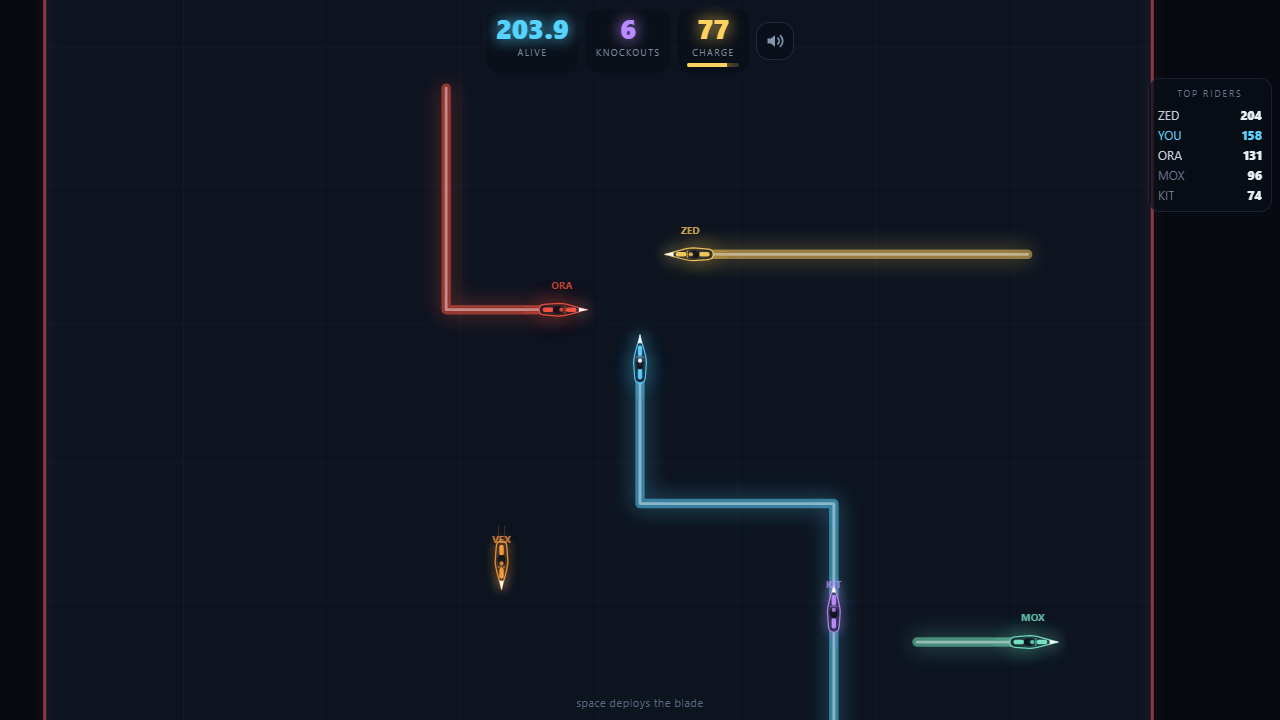
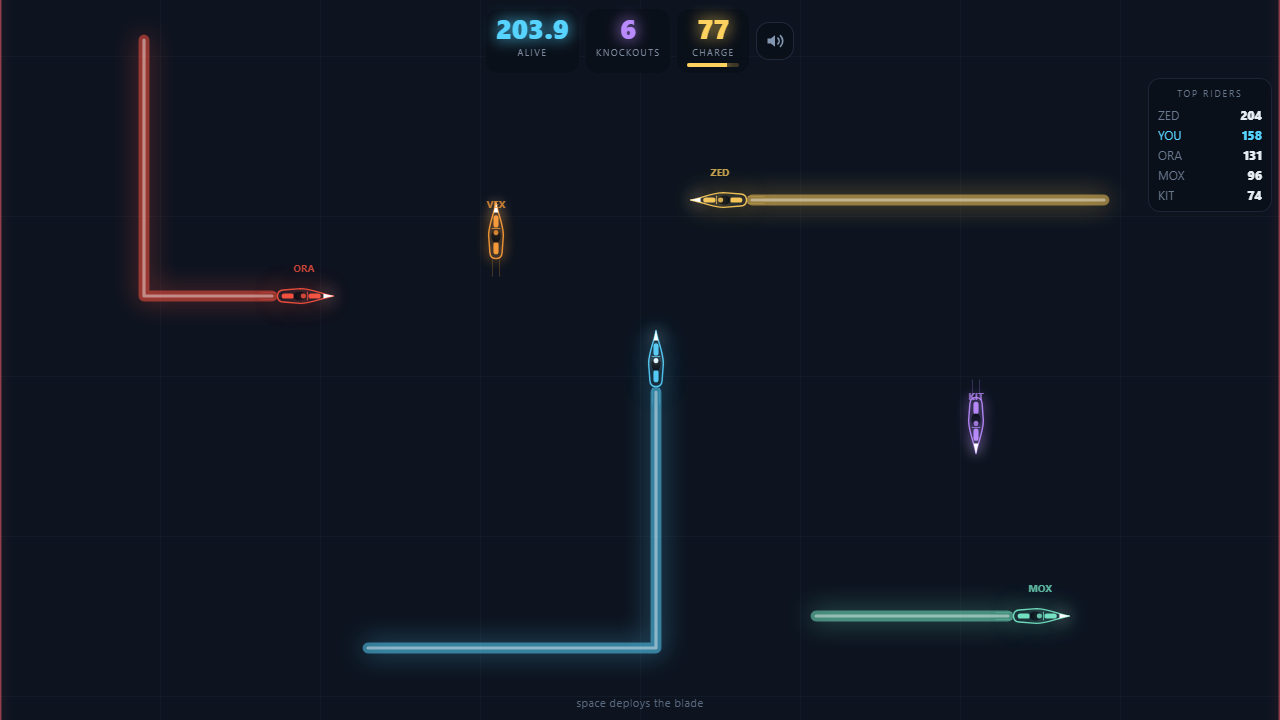
The press shot shows a layout the game stopped having sixteen days ago
shot-3-arena-wide.png was taken on 30 Sep. The camera changed on 1 Oct - the arena
fills a computer's screen now instead of floating in black - so the picture Lok would
have posted at launch showed the exact fault that fix removed: black down both sides
and a view 46 cells wide on a board 40 wide. Nothing had ever re-checked the press kit
against the game.

Retaken from the page itself at 1280x720, and the taking is now a script rather than
an afternoon: press/make-wide-shot.py injects a hand-built arena into index.html with
rAF stubbed out, no server and no randomness, and asks headless Edge for one frame.
Three measured quirks are handled in it - Edge reports innerWidth smaller than it lays
the page out, it will not composite a canvas into --screenshot, and roughly every other
run writes nothing at all.

index.html is untouched, so the itch zip stays byte-identical and needs no repack.

diff --git a/press/make-wide-shot.py b/press/make-wide-shot.py
@@ -1,0 +1,103 @@
+"""Re-take press/shot-3-arena-wide.png from whatever index.html currently draws.
+
+Run it from the repo root: python press/make-wide-shot.py
+
+The shot went stale for sixteen days once - it was taken on 30 Sep and the camera changed on
+1 Oct, so the picture Lok would have posted at launch showed the arena floating in black that
+the fix had removed. This exists so the picture is regenerated from the page rather than
+remembered, and so the next look change costs a minute instead of an afternoon.
+
+How it works: index.html is copied to a scratch probe with requestAnimationFrame stubbed out and
+a hand-built arena appended - no server, no socket, no randomness - then headless Edge is asked
+for one screenshot. Three measured quirks are already handled here:
+  * Edge lays the page out at the window size but reports innerWidth/innerHeight smaller, so the
+    canvas is sized to a fixed 1280x720 rather than to fit().
+  * Edge does not composite a canvas into --screenshot, so the probe hands it a plain <img> of
+    the same pixels (cv.toDataURL) and hides the canvas.
+  * Back-to-back Edge runs write nothing at all, roughly every other try, hence the retry loop.
+"""
+import os, shutil, subprocess, sys, tempfile, time
+
+EDGE = r"C:/Program Files (x86)/Microsoft/Edge/Application/msedge.exe"
+HERE = os.path.dirname(os.path.abspath(__file__))
+ROOT = os.path.dirname(HERE)
+PROBE = os.path.join(ROOT, "_probe_wide.html")
+OUT = os.path.join(HERE, "shot-3-arena-wide.png")
+
+# One still of a real arena: four riders laying ribbon, two riding clean, you in the middle with
+# the blade out. The two with nothing behind them are the whole point of the game, so keep them.
+SCENE = """
+<script>
+setTimeout(function () {
+  const cell = (x, y) => y * W + x;
+  let born = 0;
+  function trail(id, x, y, legs) {
+    for (const [dx, dy, n] of legs) for (let i = 0; i < n; i++) { walls.set(cell(x, y), {o: id, born: born++}); x += dx; y += dy; }
+    return [x, y];
+  }
+  function bike(id, nm, x, y, d, blade, charge) {
+    bikes.set(id, {id, x, y, px: x, py: y, ox: x, oy: y, d, blade, charge});
+    names.set(id, {n: nm, bot: id !== 1 ? 1 : 0});
+  }
+  tick = 2400; born = tick - 55; tickAt = performance.now();
+  ws = {};                                       // rivals' names only draw for a real arena
+
+  let p = trail(1, 11, 38, [[1, 0, 9], [0, -1, 9]]);          // you: a corner in the ribbon behind you
+  bike(1, 'YOU', p[0], p[1], 'U', true, 77);
+  born = tick - 48; p = trail(1004, 34, 24, [[-1, 0, 12]]);   // ZED, amber, a long wall across the top
+  bike(1004, 'ZED', p[0], p[1], 'L', true, 41);
+  born = tick - 40; p = trail(1005, 4, 19, [[0, 1, 8], [1, 0, 5]]);   // ORA, red, came down the left
+  bike(1005, 'ORA', p[0], p[1], 'R', true, 63);
+  born = tick - 20; p = trail(1007, 25, 37, [[1, 0, 7]]);     // MOX, mint, along the bottom right
+  bike(1007, 'MOX', p[0], p[1], 'R', true, 88);
+  bike(1006, 'KIT', 30, 31, 'D', false, 100);                 // blade off: nothing behind him at all
+  bike(1002, 'VEX', 15, 25, 'U', false, 52);
+
+  me = 1; riding = true; myStart = tick - 2039; myKos = 6;
+  paintBoard([['ZED', 204, 1], ['YOU', 158, 0], ['ORA', 131, 1], ['MOX', 96, 1], ['KIT', 74, 1]]);
+  $('overlay').hidden = true;
+  $('hud').hidden = $('board').hidden = $('hint').hidden = false;
+  $('hint').textContent = 'space deploys the blade';
+  fit();
+  cw = 1280; ch = 720;
+  cv.style.width = cw + 'px'; cv.style.height = ch + 'px';
+  cv.width = Math.round(cw * dpr); cv.height = Math.round(ch * dpr);
+  paint(); draw();
+  const img = new Image();
+  img.src = cv.toDataURL('image/png');
+  img.style.cssText = 'position:fixed;left:0;top:0;width:' + cw + 'px;height:' + ch + 'px;z-index:0';
+  cv.style.display = 'none';
+  document.body.prepend(img);
+}, 1200);
+</script>
+"""
+
+
+def main():
+    page = open(os.path.join(ROOT, "index.html"), encoding="utf-8").read()
+    if page.count("<script>") != 1:
+        sys.exit("index.html no longer has exactly one <script> block - check the probe still fits")
+    page = page.replace("<script>", "<script>requestAnimationFrame = () => 0;", 1)
+    page = page.replace("</body>", SCENE + "</body>", 1)
+    open(PROBE, "w", encoding="utf-8", newline="").write(page)
+    profiles = tempfile.mkdtemp(prefix="retron-shot-")   # not under ROOT: these must never land in the repo
+    try:
+        if os.path.exists(OUT):
+            os.remove(OUT)
+        for i in range(6):
+            subprocess.run([EDGE, "--headless=new", "--disable-gpu", "--hide-scrollbars",
+                            "--window-size=1280,720", "--screenshot=" + OUT,
+                            "--virtual-time-budget=6000",
+                            "--user-data-dir=%s" % os.path.join(profiles, str(i)),
+                            "file:///" + PROBE.replace(os.sep, "/")], capture_output=True)
+            if os.path.exists(OUT):
+                print("wrote %s (%d bytes) on try %d" % (OUT, os.path.getsize(OUT), i + 1))
+                return
+            time.sleep(3)
+        sys.exit("Edge wrote no screenshot in six tries")
+    finally:
+        os.path.exists(PROBE) and os.remove(PROBE)
+        shutil.rmtree(profiles, ignore_errors=True)
+
+
+main()

diff --git a/press/launch-copy.md b/press/launch-copy.md
@@ -113,7 +113,7 @@ All four verdicts are asserted offline by `python preflight.py --self-check`.
 | `shot-0-menu.png` | The menu at phone width (1000x2080, 2x). Under itch's 2160px limit. |
 | `shot-1-arena-phone.png` | Mid-run on a phone: six bikes, your ribbon curling back under you, one rider heading straight at it. Shows the arrow pad and the BLADE button. |
 | `shot-2-knockout-phone.png` | The moment a rival rides into your wall and derezzes into tumbling cubes. Strongest single image. |
-| `shot-3-arena-wide.png` | 1280x720 on a computer, keyboard HUD. Good for a page header. |
+| `shot-3-arena-wide.png` | 1280x720 on a computer, keyboard HUD. Good for a page header. **Retaken 17 Oct and regenerable: `python press/make-wide-shot.py`.** The first one was shot on 30 Sep, the day before the camera changed, so it showed the arena floating in black down both sides — a layout the game no longer has. If the look of the arena ever changes again, run that script rather than trusting this file. |
 
 ## Repacking the zip
 
